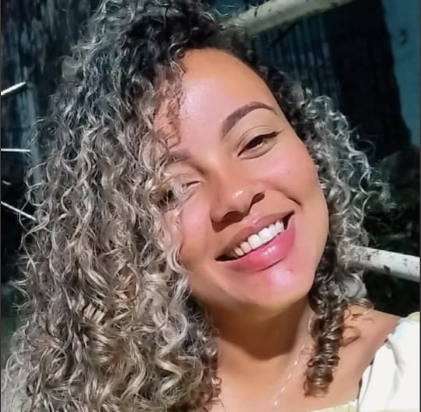
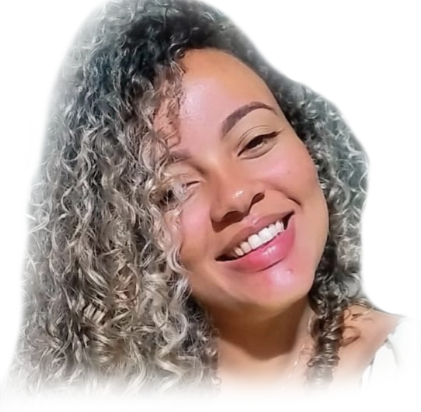
alteracoes

diff --git a/salao/src/App.scss b/salao/src/App.scss
@@ -1,9 +1,10 @@
-@import url('https://fonts.googleapis.com/css2?family=M+PLUS+Rounded+1c&family=Satisfy&display=swap');
+@import url('https://fonts.googleapis.com/css2?family=M+PLUS+Rounded+1c&family=Playfair+Display:ital,wght@0,400..900;1,400..900&family=Satisfy&display=swap');
 
 $primary-color: #FFF0F7;
 $secondary-color: #9d2c71;
 $third-color: rgb(157,44,113,255) 0px 20px 30px -10px;
-$font-stack: "M PLUS Rounded 1c", sans-serif;
+$four-color: #382B4F;
+$font-stack: "Playfair Display", serif;
 
 *{
   box-sizing: border-box;
@@ -50,11 +51,10 @@ $font-stack: "M PLUS Rounded 1c", sans-serif;
   align-items: center;
   background-color: transparent;
   border: none;
-  margin: 2rem;
+  margin: 1rem;
   font-size: 1.6rem;
   box-shadow: $third-color;
-  padding: 1.5rem;
-  border-radius: 50%;
+  padding: 1rem;
   cursor: pointer;
   color: $secondary-color;
   font-family: $font-stack;
@@ -83,7 +83,6 @@ $font-stack: "M PLUS Rounded 1c", sans-serif;
   background: rgb(157,44,113);
   background: linear-gradient(180deg, rgba(157,44,113,1) 0%, rgba(159,159,159,0) 40%);
   justify-content: space-evenly;
-
 }
 
 .perfil{
@@ -94,44 +93,61 @@ $font-stack: "M PLUS Rounded 1c", sans-serif;
 }
 
 .perfil1{
-  width: 20rem;
+  width: 100%rem;
   margin-bottom: 2rem;
   margin-top: 1.3rem;
-  border-radius: 5%;
+  display: flex;
+  align-items: center;
+  justify-content: center;
+  flex-direction: column;
+  
 }
 
 .ImgFoto{
-  width: 25rem;
-  height: 25rem;
-  border-radius: 10%;
-  margin-left: 0.8rem;
-  padding: 1.3rem;
-  background: rgb(157,44,113);
-background: linear-gradient(34deg, rgba(157,44,113,1) 0%, rgba(255,255,255,0) 19%, rgba(255,255,255,0) 82%, rgba(157,44,113,1) 100%);
+  width: 45rem;
+  height: 45rem;
+  margin-left: 10.8rem;
+  padding: 3.5rem;
+  border-right: linear-gradient(to right, transparent, $secondary-color, transparent);;
+  
+}
+
+.text-mid{
+  width: 100%;
+  height: 3rem;
+  display: flex;
+  align-items: center;
+  justify-content: center;
+  margin-bottom: 4.6rem;
 }
 
 .name{
-  font-size: 1.8rem;
+  font-size: 1.5rem;
   font-family: $font-stack;
-  color: $primary-color;
+  color: $secondary-color;
   margin-left: 2rem;
   margin-bottom: 1.5rem;
 }
 
+.fname{
+ font-size: 2.0rem;
+ font-size: 4.1rem;
+ font-family: $font-stack;
+ color: $primary-color;
+}
+
 .text{
   width: 100%rem;
-  margin-left: 14rem;
-  margin-right: 8rem;
 }
 
 .namex{
-  font-size: 2.5rem;
+  width: 100%;
+  font-size: 3.2rem;
   font-weight: 500;
   font-family: $font-stack;
   color: $secondary-color;
   background: rgb(157,44,113);
-  background: linear-gradient(34deg, rgba(157,44,113,1) 0%, rgba(255,255,255,0) 19%, rgba(255,255,255,0) 82%, rgba(157,44,113,1) 100%);
-  border-radius: 5%;
+background: linear-gradient(338deg, rgba(157,44,113,1) 0%, rgba(255,255,255,0) 19%);
   padding: 1.3rem;
 
 }
@@ -145,6 +161,35 @@ background: linear-gradient(34deg, rgba(157,44,113,1) 0%, rgba(255,255,255,0) 19
 
 }
 
+.line{  
+  height: 1px; /* altura da linha */
+  background: linear-gradient(to right, transparent, $secondary-color, transparent);
+  margin-bottom: 2rem;
+}
+
+.perfil1 {
+  position: relative; /* Para garantir que o gradiente fique por cima do conteúdo */
+  padding-right: 1px; /* Adiciona espaço para o gradiente ocupar */
+}
+
+.perfil1::after {
+  content: '';
+  position: absolute;
+  top: 0;
+  right: 0;
+  height: 80%;
+  width: 1px; /* Largura do gradiente */
+  background: linear-gradient(to bottom, transparent, $secondary-color, transparent);
+}
+
+
+
+
+.nameMid{
+  font-size: 3rem;
+  
+}
+
 .profile{
   display: flex;
   align-items: center;
@@ -155,21 +200,18 @@ background: linear-gradient(34deg, rgba(157,44,113,1) 0%, rgba(255,255,255,0) 19
   width: 80rem;
   height: 25rem;
   margin-left: 2rem;
-  margin-bottom: 0.5rem;
+  margin-bottom: 5rem;
+  margin-top: 3rem;
   background: rgb(157,44,113);
-  background: linear-gradient(34deg, rgba(157,44,113,1) 0%, rgba(255,255,255,0) 19%, rgba(255,255,255,0) 82%, rgba(157,44,113,1) 100%);
-  border-radius: 2%;
-  
+background: linear-gradient(227deg, rgba(157,44,113,1) 0%, rgba(255,255,255,0) 12%);
 }
 
 .slider-box{
-  width: 30rem;
+  width: 100%;
   height: 30rem;
   align-items: center;
   justify-content: center;
   flex-direction: row;
-  
-  
 }
 
 .slider-box-order{
@@ -204,17 +246,19 @@ background: linear-gradient(34deg, rgba(157,44,113,1) 0%, rgba(255,255,255,0) 19
 .btn-slider{
   background-color: transparent;
   border-radius: 10%;
-  padding: 0.2rem;
+  padding: 0.5rem;
   border: $secondary-color 0.2rem solid;
   font-family: $font-stack;
-  color: $secondary-color;
+  color: $primary-color;
   font-weight: 700;
   cursor: pointer;
+  transition: 0.8s;
+  background-color: $secondary-color;
 }
 
 .btn-slider:hover{
-  color: $primary-color;
-  background-color: $secondary-color;
+  color: $secondary-color;
+  background-color: $primary-color;
   transition: 1.3s;
   box-shadow: rgb(0, 0, 0) 0px 20px 30px -10px;
 }

diff --git a/salao/src/App.jsx b/salao/src/App.jsx
@@ -1,7 +1,7 @@
 
 // import './App.sass'
 import Logo from './Imagens/Logo.png'
-import ImgFoto from './Imagens/Sol.png'
+import ImgFoto from './Imagens/stefany1.png'
 import CarrouselMid from './Components/CarrouselBody2'
 import Instagram  from './Imagens/intagram.png'
 import Facebook from './Imagens/facebook.png'
@@ -27,7 +27,7 @@ function App() {
         </div>
         <div className='redes-sociais'>
           <div className='media'>
-            <a href="https://www.instagram.com/salveline/"><img src={Instagram} alt="Instagram" className='socialMedia' /></a>
+            <a href="https://www.instagram.com/espaco_stefany_nogueira/reels/"><img src={Instagram} alt="Instagram" className='socialMedia' /></a>
           </div>
           <div className='media'>
             <a href=""><img src={Facebook} alt="" className='socialMedia'/></a>
@@ -43,18 +43,21 @@ function App() {
         <div className='profile'>
          <div className='perfil'>
           <div className='perfil1'>
-           <p className='name'>Stefany Nogueira</p>
-           <img src={ImgFoto} className='ImgFoto' />
-          </div>
+           <p className=' fname'>Stefany Nogueira</p>
+           <img src={ImgFoto} className='ImgFoto lineVert' />
+          </div>          
           <div className='text'>
             <p className='name'>Perfil</p>
-            <p className='namex'>Sou uma profissional apaixonada e dedicada no ramo da beleza, 
-             especializada em cabelo e unhas. Com anos de experiência e um profundo conhecimento das últimas tendências e técnicas, 
-             meu objetivo é <b> realçar a beleza única de cada cliente, </b> proporcionando serviços de alta qualidade e resultados impressionantes.</p>
+            <p className='namex'>
+             Com anos de experiência e um profundo conhecimento das últimas tendências e técnicas, 
+             meu objetivo é <b> realçar a beleza única de cada cliente, </b> </p>
           </div>
-        <div/>     
-       </div>
+        </div>
       </div>
+    </div>
+    <div className='line'></div>
+    <div className='text-mid'>
+     <p className='nameA nameMid'>Catagolo de Serviços</p>
     </div>
      <div className='body2'>
       <CarrouselMid/>
